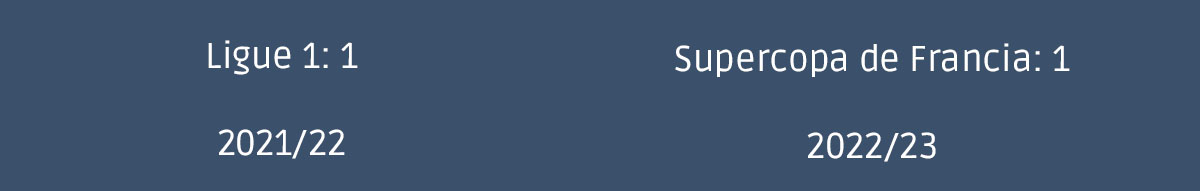
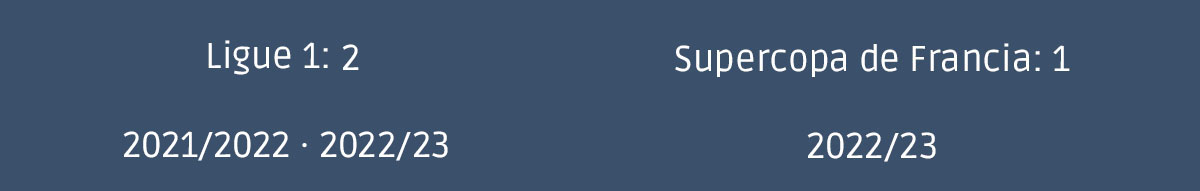
Todas las paginas responsives, animacion agregada, datos actualizados en las paginas de estadisticas y palmares, variantes arregladas.

Changed region(s): [[0.0925, 0.6806, 0.37, 0.8377], [0.2775, 0.2356, 0.3083, 0.3665]]

diff --git a/css/app.css b/css/app.css
@@ -32,17 +32,11 @@ header {
   left: 0;
   width: 100%;
 }
-@media (max-width: 576px) {
-  header {
-    justify-content: center;
-  }
-}
-
-img {
+header img {
   padding: 0px 12px;
 }
 @media (max-width: 576px) {
-  img {
+  header img {
     display: flex;
     flex-direction: row;
     justify-self: center;
@@ -50,19 +44,18 @@ img {
     padding: 0;
   }
 }
-
-ul {
+header ul {
   list-style-type: none;
   display: flex;
   flex-direction: row;
 }
 @media (max-width: 576px) {
-  ul {
+  header ul {
     padding: 0px;
     margin-bottom: 12px;
   }
 }
-ul li a {
+header ul li a {
   padding: 0px 30px;
   color: white;
   text-transform: uppercase;
@@ -70,7 +63,7 @@ ul li a {
   font-family: "Ruda";
 }
 @media (max-width: 576px) {
-  ul li a {
+  header ul li a {
     padding: 0px 12px;
     font-size: 15px;
   }
@@ -808,12 +801,18 @@ main section h1 {
 }
 
 .borde-azul3 {
-  width: 130px;
-  height: 35px;
+  width: 260px;
+  height: 55px;
   margin: 0px;
   padding: 3px;
   background: #0b132b;
   text-align: center;
+}
+@media (max-width: 576px) {
+  .borde-azul3 {
+    width: 130px;
+    height: 35px;
+  }
 }
 
 #videos {

diff --git a/pages/estadisticas.html b/pages/estadisticas.html
@@ -57,16 +57,16 @@
                     <div class="row">
                         <div class="col-12">
                             <ul class="ruda" id="estadisticasPsg">
-                                <li>PARTIDOS 71</li>
-                                <li>GOLES 31</li>
-                                <li>PROMEDIO 0.44</li>
+                                <li>PARTIDOS 74</li>
+                                <li>GOLES 32</li>
+                                <li>PROMEDIO 0.43</li>
                                 <li>REPOKER 0</li>
                                 <li>POKER 0</li>
                                 <li>HAT-TRICK 0</li>
                                 <li>DOBLETES 4</li>
-                                <li>ASISTENCIAS 33</li>
+                                <li>ASISTENCIAS 34</li>
                                 <li>PROMEDIO 0.46</li>
-                                <li>TITULOS 2</li>
+                                <li>TITULOS 3</li>
                             </ul>
                         </div>
                     </div>

diff --git a/scss/pages/_estadisticas.scss b/scss/pages/_estadisticas.scss
@@ -134,10 +134,14 @@
 }
 
 .borde-azul3{
-    width: 130px;
-    height: 35px;
+    width: 260px;
+    height: 55px;
     margin: 0px;
     padding: 3px;
     background: $color-secundario;
     text-align: center;
+    @include mediaquery-mobile {
+        width: 130px;
+        height: 35px;
+    }
 }

diff --git a/scss/layout/_header.scss b/scss/layout/_header.scss
@@ -9,10 +9,6 @@ header{
     top: 0;
     left: 0;
     width: 100%;
-    @include mediaquery-mobile(){
-        justify-content: center;
-    }
-    }
     img{
         padding: 0px 12px;
         @include mediaquery-mobile(){
@@ -43,3 +39,4 @@ header{
             }
         }
     }
+}
